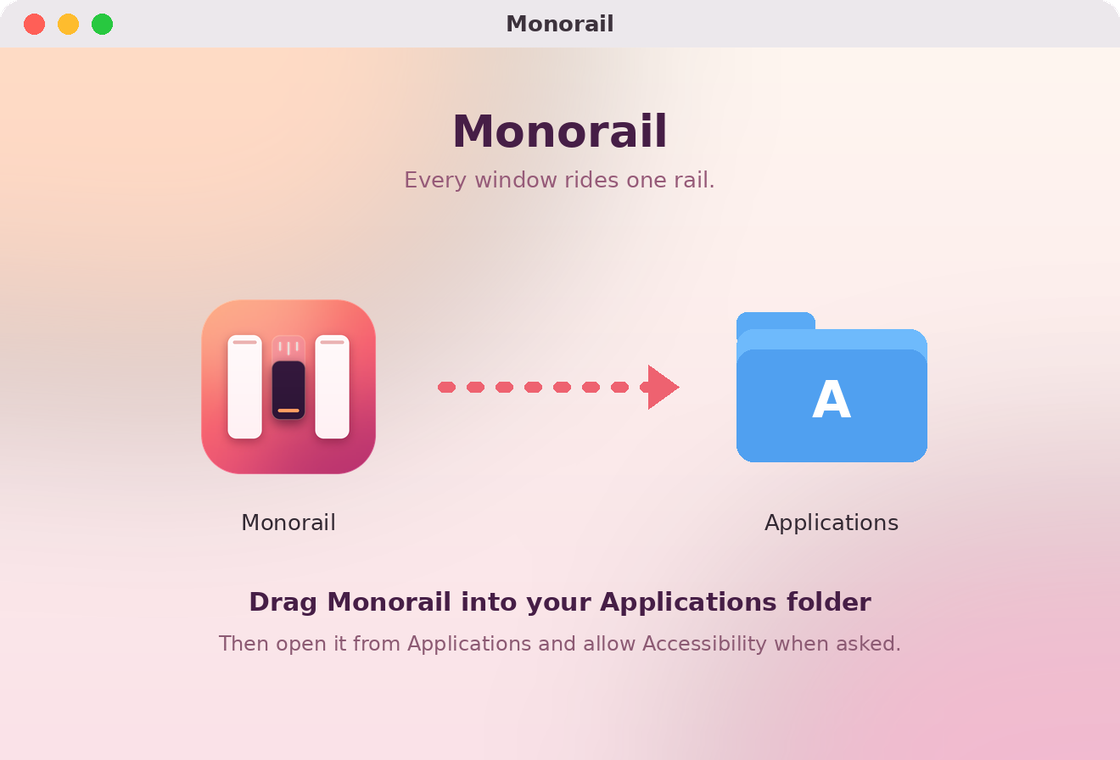
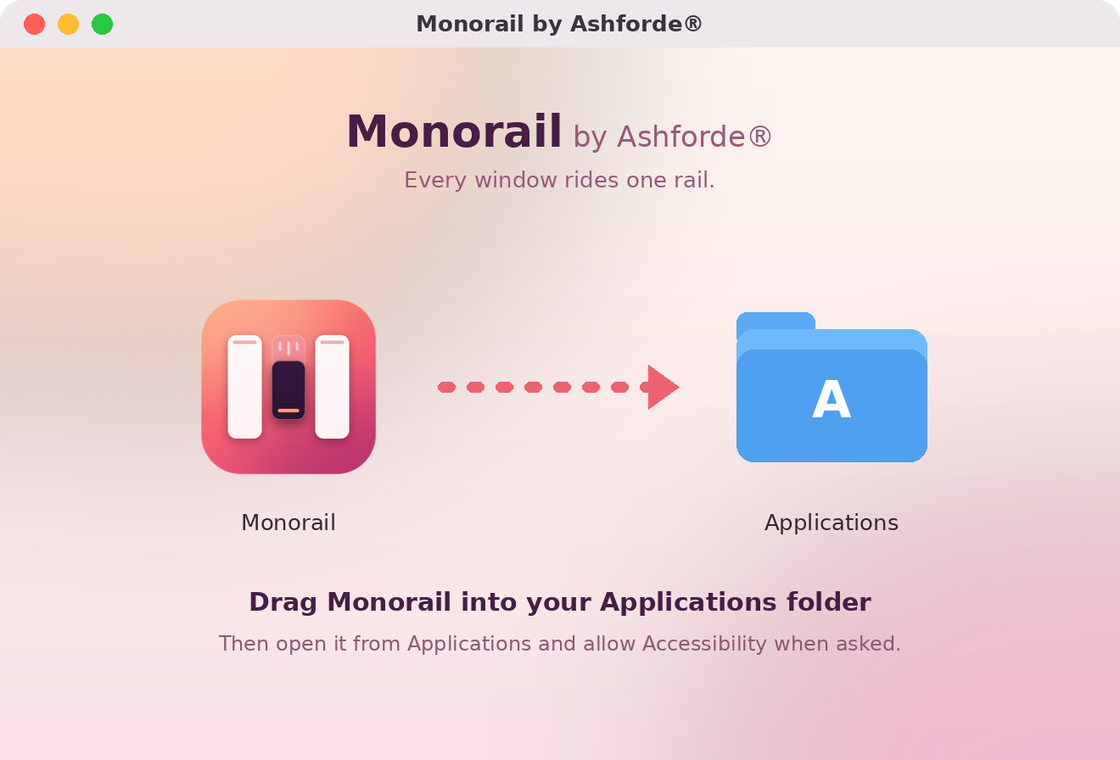
Brand the app, installer and README as Monorail by Ashforde®
The name shows in the About pane, the menu, window titles, the welcome
tour, the menu bar slider, the overview, the installer window and its
volume name, the README banner and badges, and the app's copyright
string. The app itself is still Monorail.app, so updates and
Accessibility permission carry on as before.

Changed region(s): [[0.3125, 0.1513, 0.6875, 0.2118], [0.375, 0.0, 0.625, 0.0605]]

diff --git a/Sources/Monorail/AppDelegate.swift b/Sources/Monorail/AppDelegate.swift
@@ -553,6 +553,7 @@ final class AppDelegate: NSObject, NSApplicationDelegate, NSMenuDelegate {
         statusItem.button?.target = self
         statusItem.button?.action = #selector(statusItemClicked(_:))
         statusItem.button?.sendAction(on: [.leftMouseUp, .rightMouseUp])
+        statusItem.button?.toolTip = Brand.full
         updateStatusItem()
     }
 
@@ -678,7 +679,7 @@ final class AppDelegate: NSObject, NSApplicationDelegate, NSMenuDelegate {
         menu.addItem(shortcutsMenu())
         menu.addItem(item("Welcome Tour…", #selector(showWelcomeFromMenu)))
         menu.addItem(item("Check for Updates…", #selector(checkForUpdates)))
-        menu.addItem(item("About Monorail", #selector(showAbout)))
+        menu.addItem(item("About \(Brand.full)", #selector(showAbout)))
         menu.addItem(.separator())
         menu.addItem(item("Quit Monorail", #selector(quit), key: "q"))
     }
@@ -959,7 +960,7 @@ final class AppDelegate: NSObject, NSApplicationDelegate, NSMenuDelegate {
                 setPaused: { [weak self] in self?.engine.setPaused($0) }
             )
             let window = NSWindow(contentViewController: NSHostingController(rootView: view))
-            window.title = "Monorail Settings"
+            window.title = "\(Brand.full) — Settings"
             window.styleMask = [.titled, .closable, .miniaturizable]
             window.isReleasedWhenClosed = false
             window.center()
@@ -976,7 +977,7 @@ final class AppDelegate: NSObject, NSApplicationDelegate, NSMenuDelegate {
                 self.welcomeWindow?.close()
             }
             let window = NSWindow(contentViewController: NSHostingController(rootView: view))
-            window.title = "Welcome to Monorail"
+            window.title = "Welcome to \(Brand.full)"
             window.styleMask = [.titled, .closable]
             window.isReleasedWhenClosed = false
             window.center()

diff --git a/Sources/Monorail/SettingsView.swift b/Sources/Monorail/SettingsView.swift
@@ -1185,7 +1185,10 @@ private struct AboutPane: View {
             Image(nsImage: NSApp.applicationIconImage)
                 .resizable()
                 .frame(width: 96, height: 96)
-            Text("Monorail").font(.largeTitle).fontWeight(.semibold)
+            VStack(spacing: 2) {
+                Text(Brand.name).font(.largeTitle).fontWeight(.semibold)
+                Text(Brand.maker).font(.title3).foregroundStyle(.secondary)
+            }
             Text("Version \(version)").foregroundStyle(.secondary)
             Text("A scrolling window manager for macOS. Every window keeps its size on one endless strip.")
                 .multilineTextAlignment(.center)
@@ -1194,7 +1197,7 @@ private struct AboutPane: View {
                 Link("Website & source", destination: URL(string: "https://github.com/ashfordeOU/monorail")!)
                 Link("Report an issue", destination: URL(string: "https://github.com/ashfordeOU/monorail/issues")!)
             }
-            Text("© Ashforde OÜ · Licensed under the GNU AGPL v3.0")
+            Text("\(Brand.full) · © Ashforde OÜ · Licensed under the GNU AGPL v3.0")
                 .font(.footnote).foregroundStyle(.secondary)
             Button("Reveal settings file") {
                 NSWorkspace.shared.activateFileViewerSelecting([SettingsStore.fileURL])

diff --git a/Sources/Monorail/Overview.swift b/Sources/Monorail/Overview.swift
@@ -145,7 +145,11 @@ struct OverviewView: View {
     private var header: some View {
         HStack(alignment: .center, spacing: 12) {
             VStack(alignment: .leading, spacing: 6) {
-                Text("Overview").font(.system(size: 32, weight: .bold, design: .rounded)).foregroundStyle(.white)
+                HStack(alignment: .firstTextBaseline, spacing: 12) {
+                    Text("Overview").font(.system(size: 32, weight: .bold, design: .rounded)).foregroundStyle(.white)
+                    Text(Brand.full).font(.system(size: 14, weight: .semibold, design: .rounded))
+                        .foregroundStyle(.white.opacity(0.55))
+                }
                 Text("Click or use the arrow keys and return to jump · drag a window onto a slide to pair it, between slides for its own, or onto the bin to close it · drag ≡ to reorder · esc closes")
                     .font(.callout).foregroundStyle(.white.opacity(0.65))
                     .lineLimit(2)

diff --git a/Sources/Monorail/WelcomeView.swift b/Sources/Monorail/WelcomeView.swift
@@ -67,7 +67,10 @@ struct WelcomeView: View {
             HStack(spacing: 14) {
                 Image(nsImage: NSApp.applicationIconImage).resizable().frame(width: 64, height: 64)
                 VStack(alignment: .leading, spacing: 4) {
-                    Text("Welcome to Monorail").font(.title).fontWeight(.semibold)
+                    HStack(alignment: .firstTextBaseline, spacing: 8) {
+                        Text("Welcome to \(Brand.name)").font(.title).fontWeight(.semibold)
+                        Text(Brand.maker).font(.title3).foregroundStyle(.secondary)
+                    }
                     Text("Your windows sit side by side on one endless strip. Nothing shrinks, nothing overlaps.")
                         .foregroundStyle(.secondary)
                 }

diff --git a/Sources/Monorail/SliderBar.swift b/Sources/Monorail/SliderBar.swift
@@ -968,7 +968,10 @@ private struct SliderPopoverView: View {
     var body: some View {
         VStack(alignment: .leading, spacing: 12) {
             HStack(spacing: 10) {
-                Text("Monorail").font(.headline)
+                HStack(alignment: .firstTextBaseline, spacing: 4) {
+                    Text(Brand.name).font(.headline)
+                    Text(Brand.maker).font(.caption).foregroundStyle(.secondary)
+                }
                 if let map = model.map {
                     Text(map.workspaceCount > 1 ? "Workspace \(map.workspace + 1) · \(map.tiles.count) slides"
                                                 : "\(map.tiles.count) slides")

diff --git a/Sources/Monorail/Brand.swift b/Sources/Monorail/Brand.swift
@@ -1,0 +1,11 @@
+#if os(macOS)
+/// How the app is named wherever people see it.
+enum Brand {
+    /// The app's own name (its bundle, menus like "Quit Monorail").
+    static let name = "Monorail"
+    /// The maker, with the registered mark.
+    static let maker = "by Ashforde®"
+    /// The full brand: "Monorail by Ashforde®".
+    static let full = "\(name) \(maker)"
+}
+#endif

diff --git a/scripts/render-readme-art.py b/scripts/render-readme-art.py
@@ -86,7 +86,7 @@ def banner():
                   f'calcMode="spline" keyTimes="0;0.2;0.45;0.7;1" '
                   f'keySplines="0.45 0 0.2 1;0.45 0 0.2 1;0.45 0 0.2 1;0.45 0 0.2 1" '
                   f'values="0 0;{travel * 0.35 * scale:.1f} 0;{travel * scale:.1f} 0;{travel * 0.6 * scale:.1f} 0;0 0"/>')
-    return f'''<svg xmlns="http://www.w3.org/2000/svg" viewBox="0 0 {W} {H}" width="{W}" height="{H}" role="img" aria-label="Monorail: every window rides one rail">
+    return f'''<svg xmlns="http://www.w3.org/2000/svg" viewBox="0 0 {W} {H}" width="{W}" height="{H}" role="img" aria-label="Monorail by Ashforde®: every window rides one rail">
 <defs>
   <linearGradient id="bg" x1="0" y1="0" x2="1" y2="1">
     <stop offset="0" stop-color="{CORAL}"/><stop offset="0.5" stop-color="{PINK}"/><stop offset="1" stop-color="{PLUM}"/>
@@ -114,7 +114,7 @@ def banner():
   {''.join(tiles)}
   <g>{frame_anim}<rect x="{bx + 8}" y="{by + 5}" width="{frame_w:.1f}" height="30" rx="8" fill="#fff" fill-opacity="0.15" stroke="#fff" stroke-width="2.5"/></g>
   {m_icon(70, 96, 92)}
-  <text x="70" y="262" font-family="{FONT}" font-size="76" font-weight="800" fill="#fff" letter-spacing="-1.5">Monorail</text>
+  <text x="70" y="262" font-family="{FONT}" font-size="76" font-weight="800" fill="#fff" letter-spacing="-1.5">Monorail<tspan dx="16" font-size="30" font-weight="600" letter-spacing="0" opacity="0.85">by Ashforde®</tspan></text>
   <text x="72" y="306" font-family="{FONT}" font-size="27" font-weight="600" fill="#fff" opacity="0.95">Every window rides one rail.</text>
   <text x="72" y="344" font-family="{FONT}" font-size="19" fill="#fff" opacity="0.8">A scrolling window manager for macOS.</text>
   <text x="72" y="372" font-family="{FONT}" font-size="19" fill="#fff" opacity="0.8">Free and open source.</text>

diff --git a/scripts/render-dmg-background.py b/scripts/render-dmg-background.py
@@ -34,10 +34,15 @@ def render(scale):
 
     d = ImageDraw.Draw(img)
     # Title.
-    title = "Monorail"
+    title, maker = "Monorail", " by Ashforde®"
     f = font(s(26), bold=True)
+    fm = font(s(17))
     tw = d.textlength(title, font=f)
-    d.text(((s(W) - tw) / 2, s(34)), title, fill=(70, 30, 70, 255), font=f)
+    mw = d.textlength(maker, font=fm)
+    x = (s(W) - tw - mw) / 2
+    d.text((x, s(34)), title, fill=(70, 30, 70, 255), font=f)
+    # The maker sits on the title's baseline.
+    d.text((x + tw, s(34) + f.getmetrics()[0] - fm.getmetrics()[0]), maker, fill=(150, 90, 120, 255), font=fm)
     sub = "Every window rides one rail."
     f2 = font(s(13))
     sw = d.textlength(sub, font=f2)
@@ -84,7 +89,7 @@ def installer_preview():
     for i, color in enumerate([(255, 95, 87), (254, 188, 46), (40, 200, 64)]):
         cx, cy, r = (20 + i * 20) * s, 14 * s, 6 * s
         d.ellipse((cx - r, cy - r, cx + r, cy + r), fill=color + (255,))
-    label = "Monorail"
+    label = "Monorail by Ashforde®"
     f = font(13 * s, bold=True)
     d.text(((W * s - d.textlength(label, font=f)) / 2, 6 * s), label, fill=(60, 50, 60, 255), font=f)
     icon = Image.open(os.path.join(ROOT, "assets", "icon.png")).convert("RGBA").resize((128 * s, 128 * s), Image.LANCZOS)

diff --git a/README.md b/README.md
@@ -1,10 +1,10 @@
 <div align="center">
 
-<img src="assets/readme/banner.svg" alt="Monorail — every window rides one rail" width="100%">
+<img src="assets/readme/banner.svg" alt="Monorail by Ashforde® — every window rides one rail" width="100%">
 
 <br>
 
-[![Download Monorail](https://img.shields.io/badge/Download-Monorail%20for%20Mac-F66270?style=for-the-badge&logo=apple&logoColor=white)](https://github.com/ashfordeOU/monorail/releases/latest)
+[![Download Monorail by Ashforde®](https://img.shields.io/badge/Download-Monorail%20by%20Ashforde%C2%AE-F66270?style=for-the-badge&logo=apple&logoColor=white)](https://github.com/ashfordeOU/monorail/releases/latest)
 
 ![macOS 13+](https://img.shields.io/badge/macOS-13%2B-2A1430?logo=apple)
 ![Universal](https://img.shields.io/badge/Apple%20silicon%20%2B%20Intel-universal-D63A80)
@@ -16,6 +16,8 @@
 </div>
 
 ---
+
+**Monorail by Ashforde®** is a scrolling window manager for your Mac.
 
 Grid tilers squeeze every new window into the space that's already there.
 **Monorail does the opposite.** Each window is a column on a horizontal strip
@@ -677,7 +679,8 @@ Bug reports and pull requests are welcome. See [CONTRIBUTING.md](CONTRIBUTING.md
 
 ## License
 
-Copyright © 2026 Ashforde OÜ.
+Monorail by Ashforde®. Copyright © 2026 Ashforde OÜ. Ashforde® is a
+registered trademark of Ashforde OÜ.
 
 Monorail is free software: you can redistribute it and/or modify it under the
 terms of the [GNU Affero General Public License v3.0](LICENSE) as published by

diff --git a/CHANGELOG.md b/CHANGELOG.md
@@ -1,6 +1,6 @@
 # Changelog
 
-All notable changes to MacSlider are documented here.
+All notable changes to Monorail by Ashforde® are documented here.
 The format follows [Keep a Changelog](https://keepachangelog.com/en/1.1.0/),
 and versions follow [Semantic Versioning](https://semver.org/).
 
